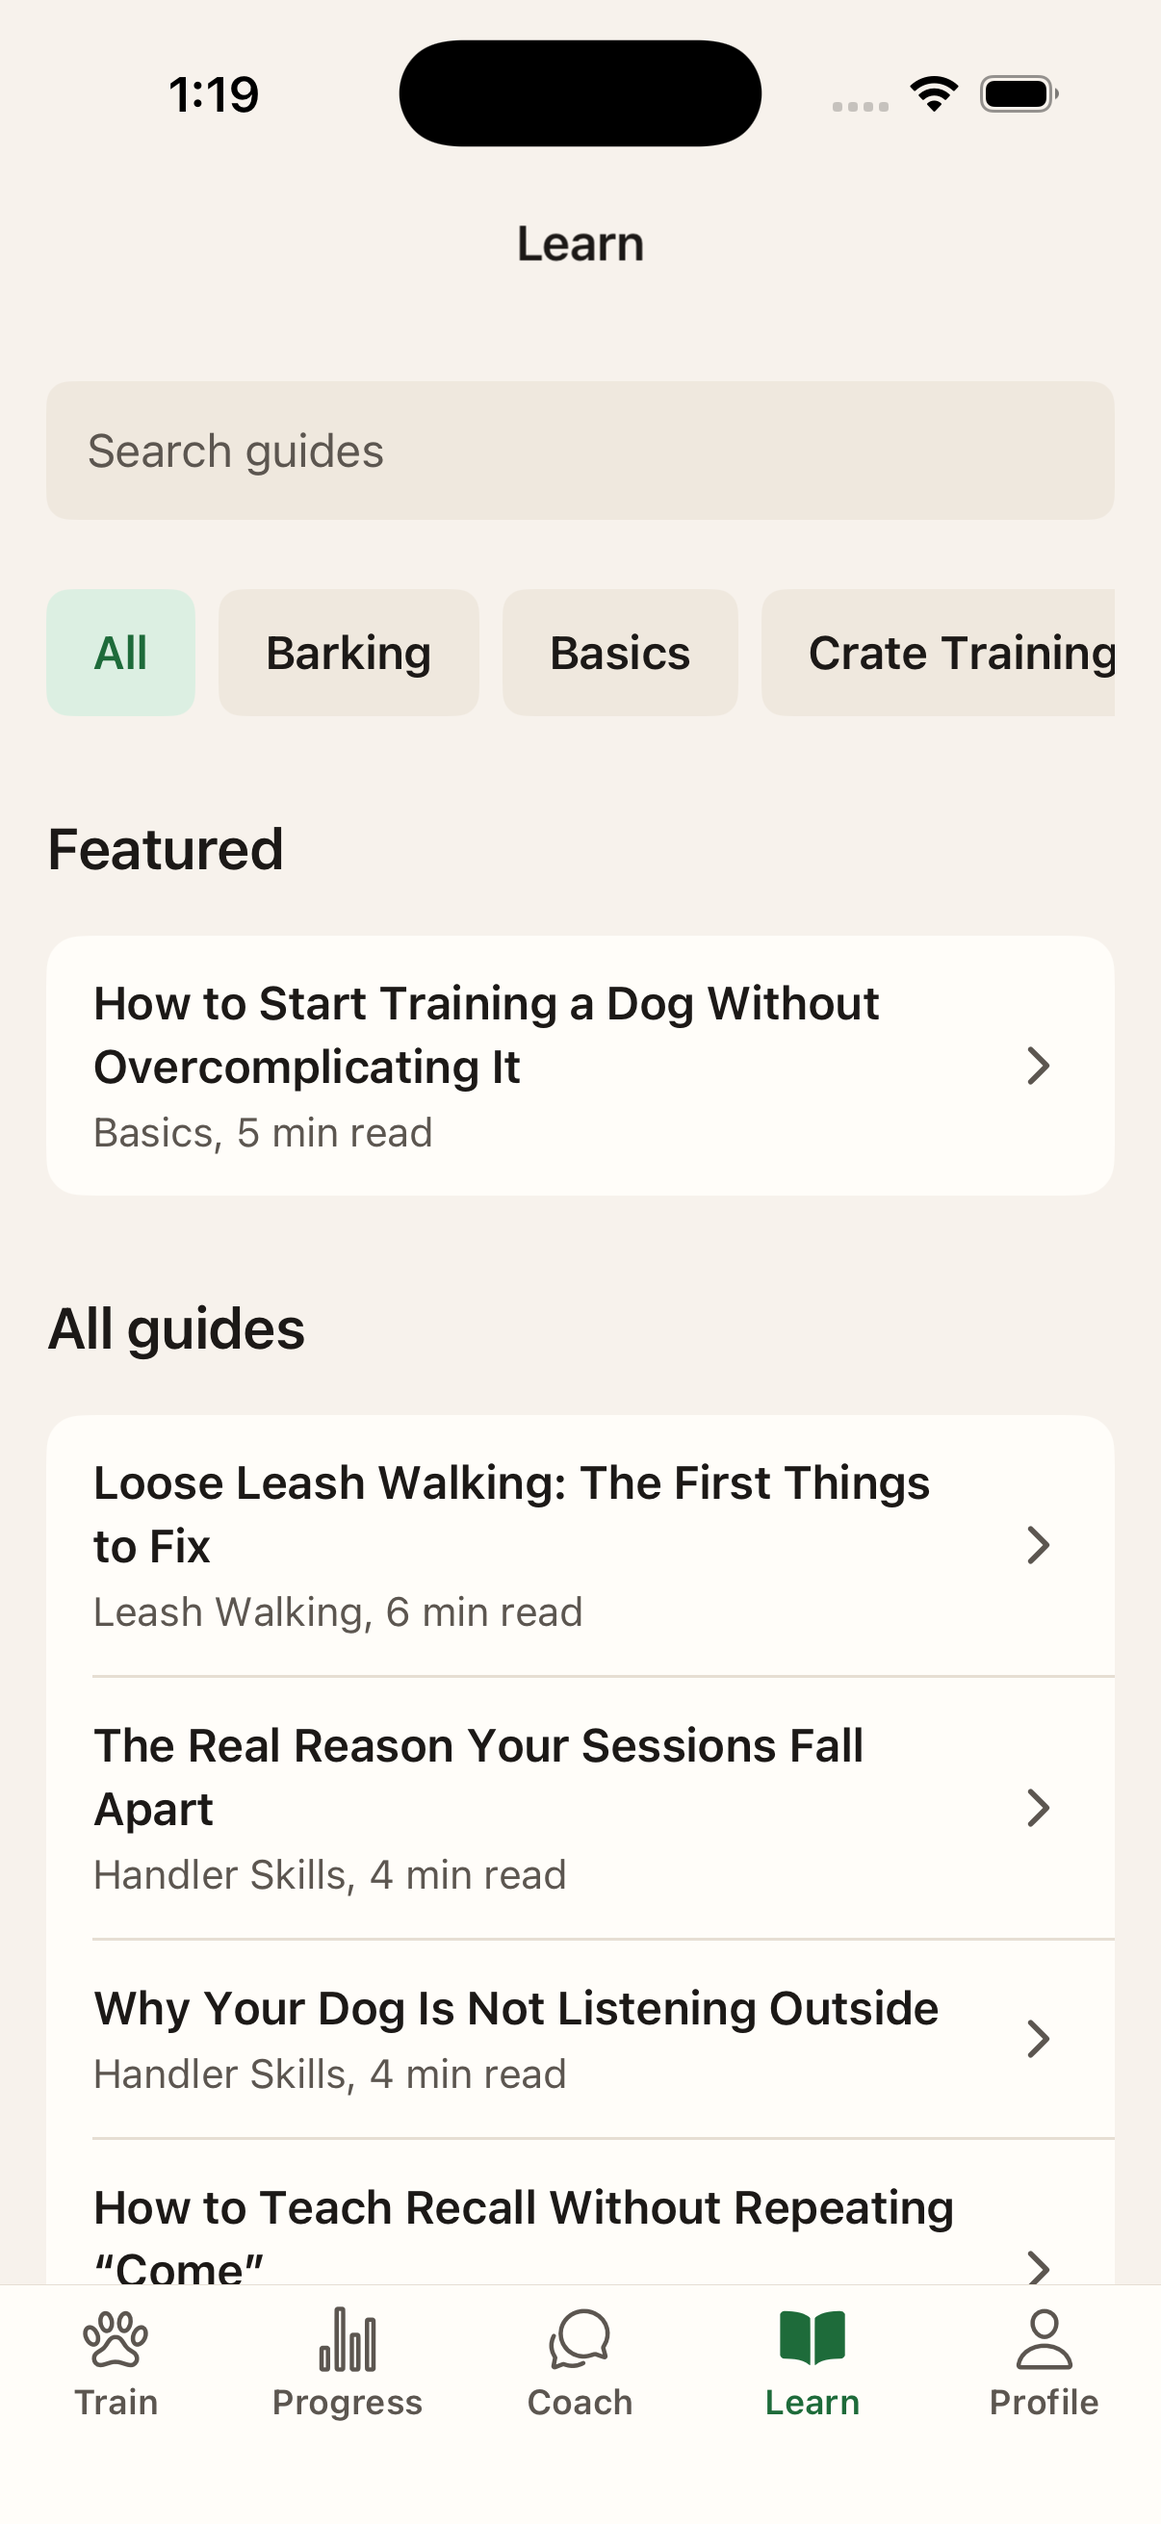
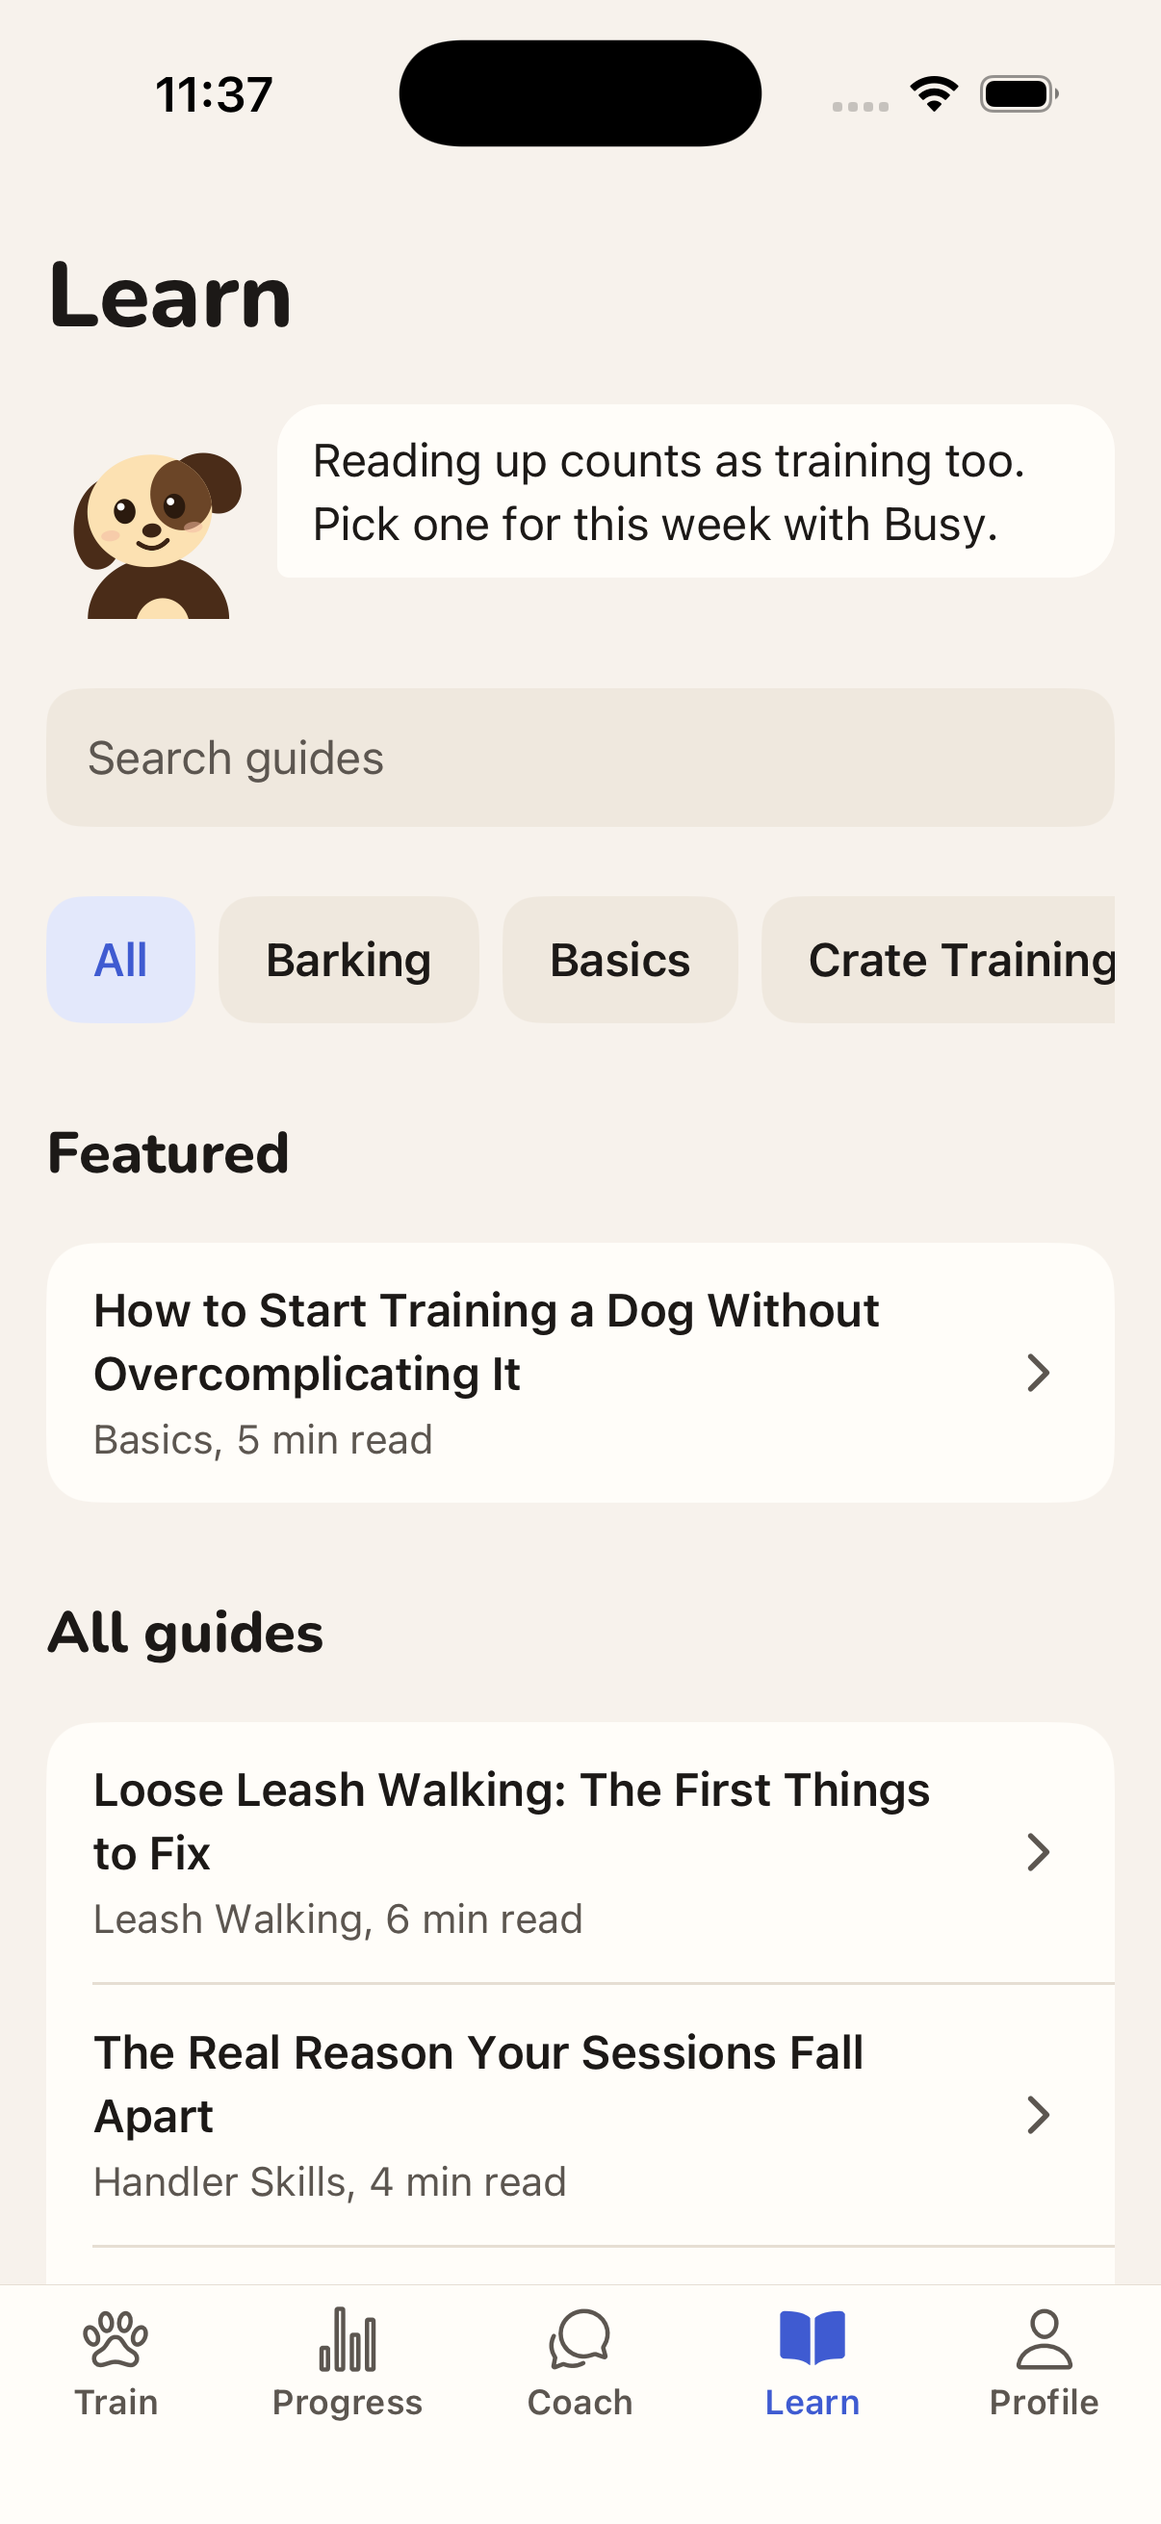
design: mascot page headers on every tab root
- PageHeader primitive: eyebrow, display title, and the mascot with one
  line that is true for that page (sessions so far, streak, what to read,
  who the coach is); Profile keeps the title only because the dog's own
  avatar is right below
- Native title hidden on the five tab roots; pushed screens unchanged
- Coach: header replaces the empty-state mascot (one mascot per screen);
  suggestions sit under "Good places to start"
- Progress chart: week buckets keyed by local date so completed sessions
  land in their bar
- DESIGN.md: mascot placement rule updated

diff --git a/app/(tabs)/train/index.tsx b/app/(tabs)/train/index.tsx
@@ -8,6 +8,7 @@ import { Card } from '@/components/ui/Card';
 import { EmptyState } from '@/components/ui/EmptyState';
 import { ListGroup, ListRow } from '@/components/ui/ListRow';
 import { MascotCallout } from '@/components/ui/MascotCallout';
+import { PageHeader } from '@/components/ui/PageHeader';
 import { SectionHeader } from '@/components/ui/SectionHeader';
 import { SkeletonBlock } from '@/components/ui/SkeletonBlock';
 import { StreakBadge } from '@/components/ui/StreakBadge';
@@ -112,23 +113,6 @@ function pickQuickWins(todayKey: string, count = 3): QuickWin[] {
 // ─────────────────────────────────────────────────────────────────────────────
 // Loading skeleton — mirrors the real layout so the swap doesn't jump
 // ─────────────────────────────────────────────────────────────────────────────
-
-function TodayHeader({ dogName, line }: { dogName: string | null; line: string }) {
-  const dateLabel = new Date().toLocaleDateString('en-US', { weekday: 'long', month: 'long', day: 'numeric' });
-  return (
-    <View style={{ gap: spacing.lg, paddingTop: spacing.sm }}>
-      <View style={{ gap: spacing.xs }}>
-        <Text variant="captionStrong" color={colors.text.secondary}>
-          {dateLabel}
-        </Text>
-        <Text variant="display" accessibilityRole="header">
-          {dogName ? `${dogName}'s day` : 'Today'}
-        </Text>
-      </View>
-      <MascotCallout state="happy" size={72} callout={line} calloutPlacement="right" />
-    </View>
-  );
-}
 
 function LoadingSkeleton() {
   return (
@@ -360,6 +344,7 @@ export default function TrainScreen() {
     router.push('/(tabs)/train/plan');
   };
 
+  const dateLabel = new Date().toLocaleDateString('en-US', { weekday: 'long', month: 'long', day: 'numeric' });
   const greeting = (() => {
     const name = dog?.name ?? 'your dog';
     if (resumeTarget) return `We left a session half done. Shall we finish it?`;
@@ -378,7 +363,7 @@ export default function TrainScreen() {
         contentInsetAdjustmentBehavior="automatic"
         contentContainerStyle={{ padding: spacing.lg, gap: spacing.xl }}
       >
-        <TodayHeader dogName={dog?.name ?? null} line="One sec, fetching the plan." />
+        <PageHeader eyebrow={dateLabel} title={dog?.name ? `${dog.name}'s day` : 'Today'} line="One sec, fetching the plan." mascotState="thinking" />
         <LoadingSkeleton />
       </ScrollView>
     );
@@ -393,7 +378,12 @@ export default function TrainScreen() {
         }
         contentContainerStyle={{ padding: spacing.lg, gap: spacing.xl }}
       >
-        <TodayHeader dogName={dog?.name ?? null} line={greeting} />
+        <PageHeader
+          eyebrow={dateLabel}
+          title={dog?.name ? `${dog.name}'s day` : 'Today'}
+          line={greeting}
+          mascotState={resumeTarget || heroVariant === 'overdue' || firstMissed ? 'encouraging' : 'happy'}
+        />
 
         {/* ── No plan ── */}
         {!hasPlans ? (

diff --git a/app/(tabs)/progress/index.tsx b/app/(tabs)/progress/index.tsx
@@ -11,6 +11,7 @@ import { EmptyState } from '@/components/ui/EmptyState';
 import { ListGroup, ListRow } from '@/components/ui/ListRow';
 import { MascotCallout } from '@/components/ui/MascotCallout';
 import { Tag } from '@/components/ui/PillTag';
+import { PageHeader } from '@/components/ui/PageHeader';
 import { SectionHeader } from '@/components/ui/SectionHeader';
 import { SkeletonBlock } from '@/components/ui/SkeletonBlock';
 import { Text } from '@/components/ui/Text';
@@ -299,14 +300,22 @@ export default function ProgressScreen() {
   const upcoming: MilestoneDefinition[] = MILESTONE_DEFINITIONS.filter((def) => !reachedIds.includes(def.id)).slice(0, 3);
 
   // Always show the last eight weeks so one session is a bar, not a block.
+  // Keys are local YYYY-MM-DD, matching the store's weekStart values.
   const WEEKS_SHOWN = 8;
   const weekBuckets = (() => {
+    const toKey = (d: Date) =>
+      `${d.getFullYear()}-${String(d.getMonth() + 1).padStart(2, '0')}-${String(d.getDate()).padStart(2, '0')}`;
+    const parseKey = (key: string) => {
+      const [y, m, day] = key.split('-').map(Number);
+      return new Date(y, (m ?? 1) - 1, day ?? 1);
+    };
     const byStart = new Map(sessionsByWeek.map((w) => [w.weekStart, w.sessionsCompleted]));
-    const latest = sessionsByWeek.length ? new Date(sessionsByWeek[sessionsByWeek.length - 1].weekStart) : new Date();
+    const latestKey = [...byStart.keys()].sort().at(-1);
+    const latest = latestKey ? parseKey(latestKey) : new Date();
     return Array.from({ length: WEEKS_SHOWN }, (_, i) => {
       const d = new Date(latest);
       d.setDate(d.getDate() - (WEEKS_SHOWN - 1 - i) * 7);
-      const key = d.toISOString().slice(0, 10);
+      const key = toKey(d);
       return { weekStart: key, sessionsCompleted: byStart.get(key) ?? 0 };
     });
   })();
@@ -331,6 +340,16 @@ export default function ProgressScreen() {
 
   const showSkeleton = isLoading && totalSessionsCompleted === 0;
   const isNewUser = !isLoading && totalSessionsCompleted === 0;
+  const name = dog?.name ?? 'your dog';
+  const headerLine = showSkeleton
+    ? 'Adding it all up.'
+    : isNewUser
+      ? `Nothing to count yet. The first session with ${name} changes that.`
+      : sessionStreak >= 3
+        ? `${sessionStreak} days in a row. That's a habit forming.`
+        : totalSessionsCompleted === 1
+          ? `One session with ${name} in the book. Let's make it two.`
+          : `${totalSessionsCompleted} sessions with ${name} so far. Keep it steady.`;
 
   return (
     <>
@@ -341,6 +360,11 @@ export default function ProgressScreen() {
           <RefreshControl refreshing={refreshing} onRefresh={onRefresh} tintColor={colors.text.secondary} />
         }
       >
+        <PageHeader
+          title="Progress"
+          line={headerLine}
+          mascotState={showSkeleton ? 'thinking' : sessionStreak >= 3 ? 'celebrating' : 'happy'}
+        />
         {showSkeleton ? (
           <ProgressSkeleton />
         ) : isNewUser ? (

diff --git a/app/(tabs)/coach/index.tsx b/app/(tabs)/coach/index.tsx
@@ -13,6 +13,8 @@ import { EmptyState } from '@/components/ui/EmptyState';
 import { IconButton } from '@/components/ui/IconButton';
 import { Input } from '@/components/ui/Input';
 import { SkeletonBlock } from '@/components/ui/SkeletonBlock';
+import { PageHeader } from '@/components/ui/PageHeader';
+import { SectionHeader } from '@/components/ui/SectionHeader';
 import { Text } from '@/components/ui/Text';
 import { colors } from '@/constants/colors';
 import { radii } from '@/constants/radii';
@@ -158,8 +160,14 @@ export default function CoachScreen() {
         contentContainerStyle={{ padding: spacing.lg }}
         style={{ flex: 1 }}
         ListHeaderComponent={
-          hasMessages ? (
-            <View style={{ alignItems: 'flex-start', marginBottom: spacing.sm }}>
+          <View style={{ gap: spacing.lg, marginBottom: spacing.xl }}>
+            <PageHeader
+              title="Coach"
+              line={hasMessages ? `Still here. Ask me anything else about ${dog.name}.` : `Ask me anything about ${dog.name}. I know the whole history.`}
+              mascotState={isTyping ? 'thinking' : 'happy'}
+            />
+            {hasMessages ? (
+            <View style={{ alignItems: 'flex-start' }}>
               <Button
                 label="New chat"
                 variant="ghost"
@@ -170,15 +178,12 @@ export default function CoachScreen() {
                 style={{ paddingHorizontal: 0 }}
               />
             </View>
-          ) : null
+            ) : null}
+          </View>
         }
         ListEmptyComponent={
-          <View style={{ gap: spacing.xl }}>
-            <EmptyState
-              mascotState="happy"
-              title="Ask the coach anything"
-              subtitle="Questions about today's session, a behavior, or what to try next."
-            />
+          <View style={{ gap: spacing.sm }}>
+            <SectionHeader title="Good places to start" />
             <QuickSuggestions suggestions={suggestions} onSelect={handleSuggestion} disabled={isTyping} />
           </View>
         }

diff --git a/app/(tabs)/know/index.tsx b/app/(tabs)/know/index.tsx
@@ -6,10 +6,12 @@ import { ArticleCard } from '@/components/know/ArticleCard';
 import { EmptyState } from '@/components/ui/EmptyState';
 import { Input } from '@/components/ui/Input';
 import { ListGroup } from '@/components/ui/ListRow';
+import { PageHeader } from '@/components/ui/PageHeader';
 import { SectionHeader } from '@/components/ui/SectionHeader';
 import { SkeletonBlock } from '@/components/ui/SkeletonBlock';
 import { Text } from '@/components/ui/Text';
 import { colors } from '@/constants/colors';
+import { useDogStore } from '@/stores/dogStore';
 import { radii } from '@/constants/radii';
 import { spacing } from '@/constants/spacing';
 import { fetchPublishedArticles } from '@/lib/articles';
@@ -103,6 +105,8 @@ export default function KnowScreen() {
     : visibleArticles;
   const hasOnlyFeaturedResult = visibleArticles.length === 1 && listArticles.length === 0 && !!featuredArticle;
 
+  const dogName = useDogStore((state) => state.dog?.name) ?? 'your dog';
+
   const openArticle = (article: Article) => router.push(`/know/article/${article.slug}` as never);
 
   return (
@@ -122,6 +126,10 @@ export default function KnowScreen() {
         />
       }
     >
+      <PageHeader
+        title="Learn"
+        line={`Reading up counts as training too. Pick one for this week with ${dogName}.`}
+      />
       <Input
         value={query}
         onChangeText={setQuery}

diff --git a/components/ui/PageHeader.tsx b/components/ui/PageHeader.tsx
@@ -1,0 +1,38 @@
+import { View } from 'react-native';
+
+import { MascotCallout, type MascotState } from '@/components/ui/MascotCallout';
+import { Text } from '@/components/ui/Text';
+import { colors } from '@/constants/colors';
+import { spacing } from '@/constants/spacing';
+
+type PageHeaderProps = {
+  title: string;
+  /** Small line above the title, e.g. today's date. */
+  eyebrow?: string;
+  /** What the mascot says about this page. Short, first-person plural, specific. */
+  line?: string;
+  mascotState?: MascotState;
+};
+
+/**
+ * The header of every tab root: eyebrow, display title, and the mascot with
+ * one line about what is on the page (DESIGN.md, "The mascot"). Replaces the
+ * native title on tab roots only; pushed screens keep the native header.
+ */
+export function PageHeader({ title, eyebrow, line, mascotState = 'happy' }: PageHeaderProps) {
+  return (
+    <View style={{ gap: spacing.lg, paddingTop: spacing.sm }}>
+      <View style={{ gap: spacing.xs }}>
+        {eyebrow ? (
+          <Text variant="captionStrong" color={colors.text.secondary}>
+            {eyebrow}
+          </Text>
+        ) : null}
+        <Text variant="display" accessibilityRole="header">
+          {title}
+        </Text>
+      </View>
+      {line ? <MascotCallout state={mascotState} size={72} callout={line} calloutPlacement="right" /> : null}
+    </View>
+  );
+}

diff --git a/app/(tabs)/profile/index.tsx b/app/(tabs)/profile/index.tsx
@@ -8,6 +8,7 @@ import { BottomSheet } from '@/components/ui/BottomSheet';
 import { Card } from '@/components/ui/Card';
 import { ListGroup, ListRow } from '@/components/ui/ListRow';
 import { MascotCallout } from '@/components/ui/MascotCallout';
+import { PageHeader } from '@/components/ui/PageHeader';
 import { SectionHeader } from '@/components/ui/SectionHeader';
 import { Text } from '@/components/ui/Text';
 import { colors } from '@/constants/colors';
@@ -74,6 +75,8 @@ export default function ProfileScreen() {
   return (
     <>
       <ScrollView contentInsetAdjustmentBehavior="automatic" contentContainerStyle={{ padding: spacing.lg, gap: spacing.xl }}>
+        {/* No mascot line here: the dog's own avatar sits right below, and two dogs on one screen is one too many. */}
+        <PageHeader title="Profile" />
         <Card style={{ flexDirection: 'row', alignItems: 'center', gap: spacing.lg }}>
           <View
             style={{

diff --git a/app/(tabs)/profile/_layout.tsx b/app/(tabs)/profile/_layout.tsx
@@ -7,7 +7,7 @@ export default function ProfileLayout() {
   const { colorScheme } = useTheme();
   return (
     <Stack screenOptions={stackScreenOptions(colorScheme)}>
-      <Stack.Screen name="index" options={{ title: 'Profile' }} />
+      <Stack.Screen name="index" options={{ title: 'Profile', headerShown: false }} />
       <Stack.Screen name="notification-settings" options={{ title: 'Notifications' }} />
       <Stack.Screen name="edit-dog" options={{ title: 'Edit dog' }} />
       <Stack.Screen name="privacy-policy" options={{ title: 'Privacy policy' }} />

diff --git a/app/(tabs)/progress/_layout.tsx b/app/(tabs)/progress/_layout.tsx
@@ -7,7 +7,7 @@ export default function ProgressLayout() {
   const { colorScheme } = useTheme();
   return (
     <Stack screenOptions={stackScreenOptions(colorScheme)}>
-      <Stack.Screen name="index" options={{ title: 'Progress' }} />
+      <Stack.Screen name="index" options={{ title: 'Progress', headerShown: false }} />
       <Stack.Screen name="milestones" options={{ title: 'Milestones' }} />
     </Stack>
   );

diff --git a/app/(tabs)/know/_layout.tsx b/app/(tabs)/know/_layout.tsx
@@ -7,7 +7,7 @@ export default function KnowLayout() {
   const { colorScheme } = useTheme();
   return (
     <Stack screenOptions={stackScreenOptions(colorScheme)}>
-      <Stack.Screen name="index" options={{ title: 'Learn' }} />
+      <Stack.Screen name="index" options={{ title: 'Learn', headerShown: false }} />
       <Stack.Screen name="article/[slug]" options={{ title: '' }} />
     </Stack>
   );

diff --git a/app/(tabs)/coach/_layout.tsx b/app/(tabs)/coach/_layout.tsx
@@ -7,7 +7,7 @@ export default function CoachLayout() {
   const { colorScheme } = useTheme();
   return (
     <Stack screenOptions={stackScreenOptions(colorScheme)}>
-      <Stack.Screen name="index" options={{ title: 'Coach' }} />
+      <Stack.Screen name="index" options={{ title: 'Coach', headerShown: false }} />
     </Stack>
   );
 }

diff --git a/DESIGN.md b/DESIGN.md
@@ -108,7 +108,7 @@ Motion answers an action or shows a state change. Nothing animates on mount. Not
 
 ## The mascot
 
-The mascot is the app icon's dog, drawn in `MascotCallout` from `colors.mascot`. It has five expressions (`happy`, `encouraging`, `thinking`, `celebrating`, `waiting`) that change only the eyes, mouth and head tilt. It appears in exactly these places: the Today greeting (with a speech bubble in its own voice), empty states, loading, and session completion. It never decorates a list, a card corner, or a button. Its speech-bubble lines are short, first-person plural ("We missed one. No big deal, let's pick it back up."), and never instruct the user to feel something.
+The mascot is the app icon's dog, drawn in `MascotCallout` from `colors.mascot`. It has five expressions (`happy`, `encouraging`, `thinking`, `celebrating`, `waiting`) that change only the eyes, mouth and head tilt. It appears in exactly these places: the header of each tab root through `PageHeader` (with a speech bubble in its own voice, saying something true about that page), empty states, loading, and session completion. Profile is the exception: the dog's own avatar is already there, so the header has no mascot. It never appears twice on one screen, and never decorates a list, a card corner, or a button. Its speech-bubble lines are short, first-person plural ("We missed one. No big deal, let's pick it back up."), and never instruct the user to feel something.
 
 The streak is the one small warm flourish outside the mascot: a flame in `status.warning` next to "n-day streak". Nothing else is amber.
 
